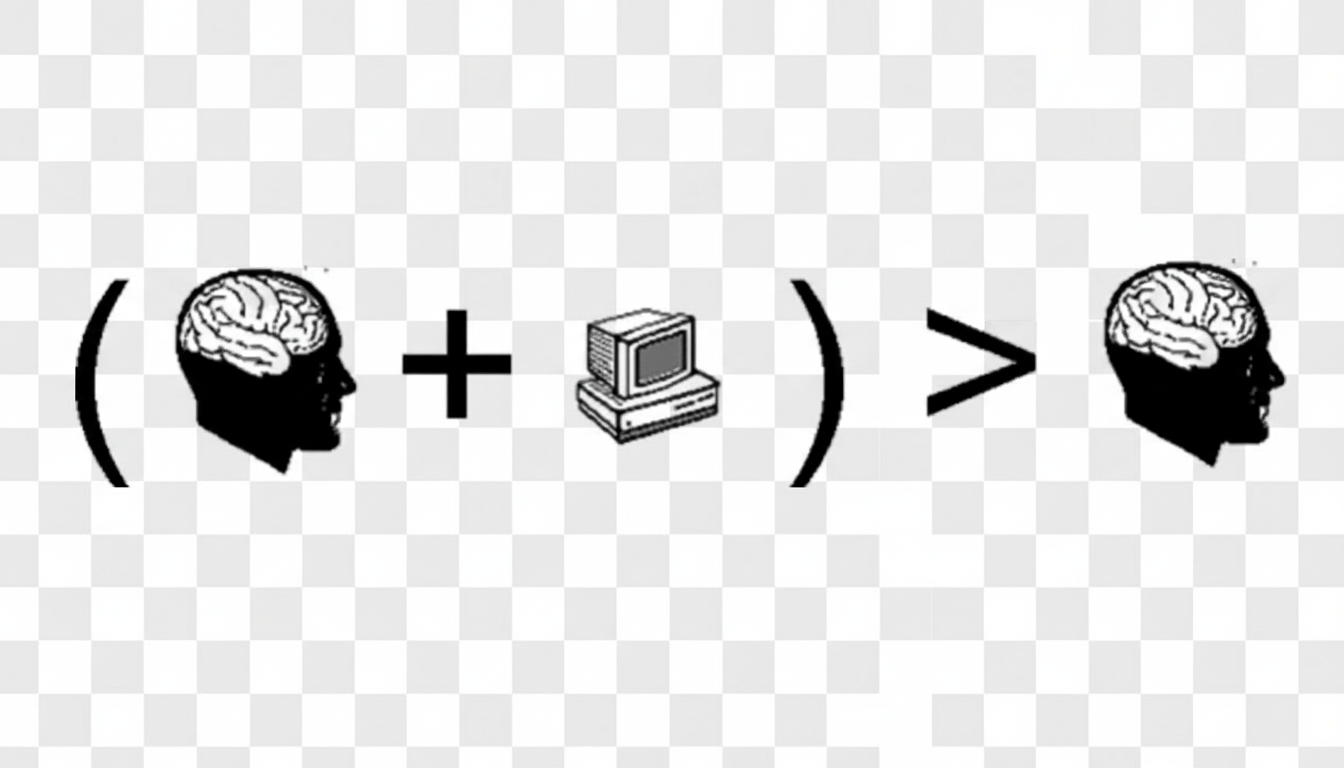
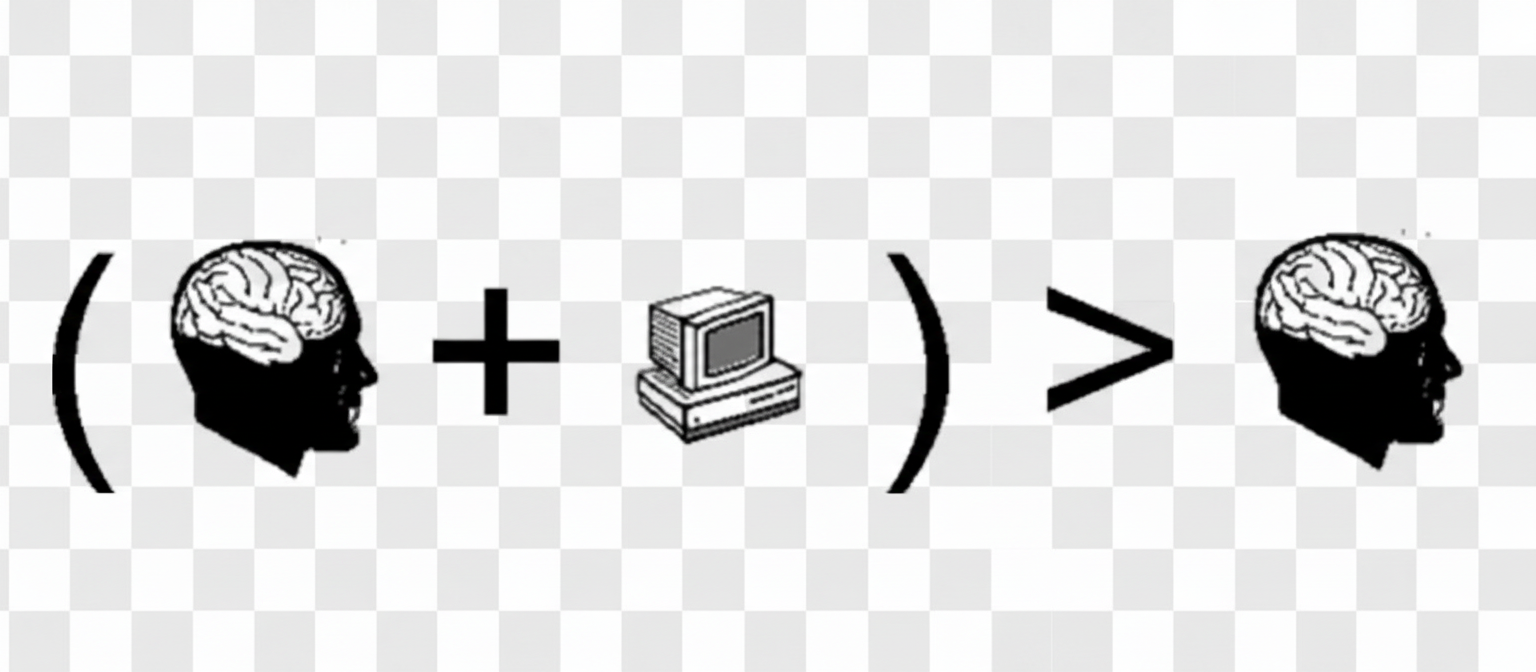
Changes

diff --git a/src/components/HeroSection.tsx b/src/components/HeroSection.tsx
@@ -18,7 +18,7 @@ const HeroSection = () => {
             AI & Medical Education
           </h1>
 
-          <div className="opacity-0 animate-slide-up -my-4" style={{ animationDelay: "0.7s" }}>
+          <div className="opacity-0 animate-slide-up" style={{ animationDelay: "0.7s" }}>
             <img src={fundamentalTheorem} alt="The Fundamental Theorem of Informatics: (Human + Computer) > Human" className="max-w-md w-full" style={{ filter: "invert(1)" }} />
           </div>
 
